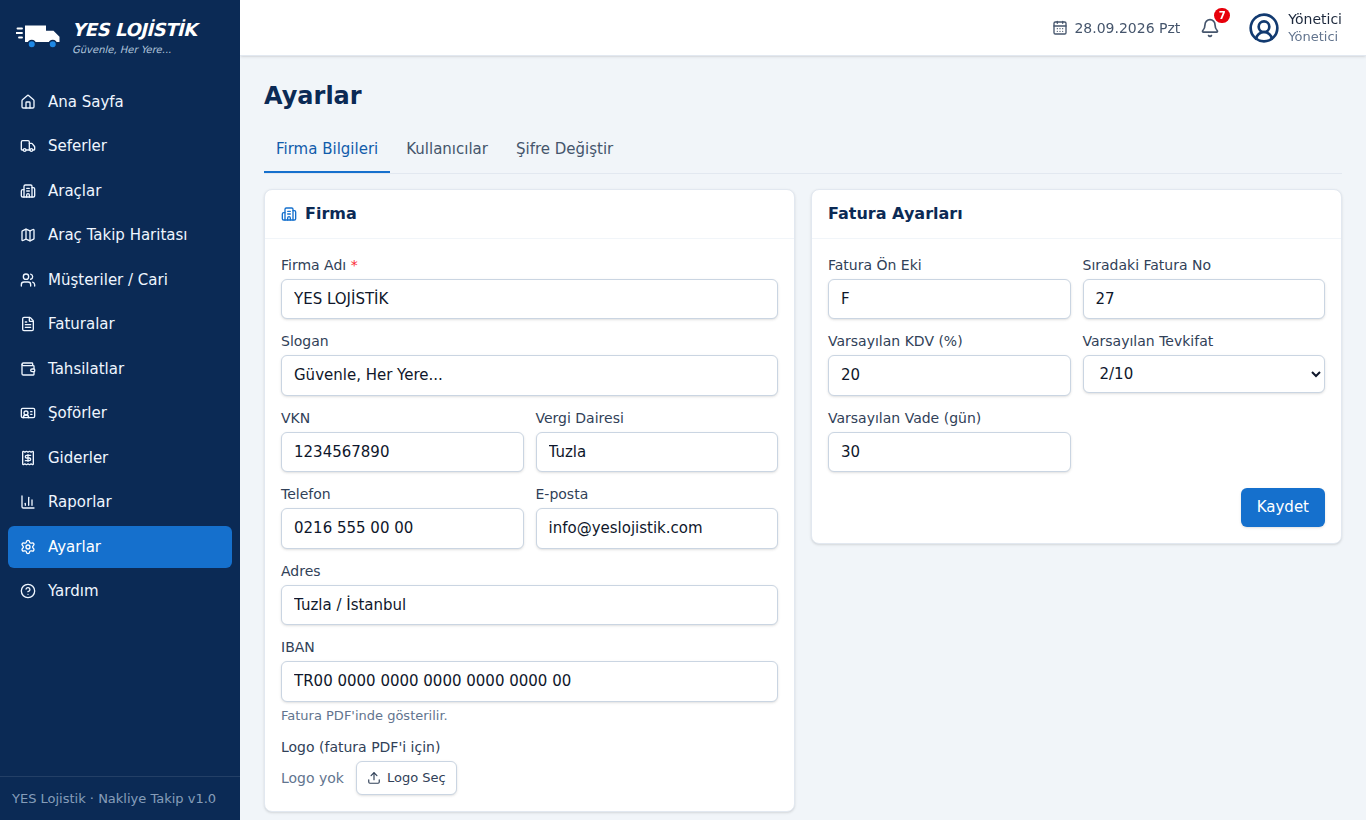
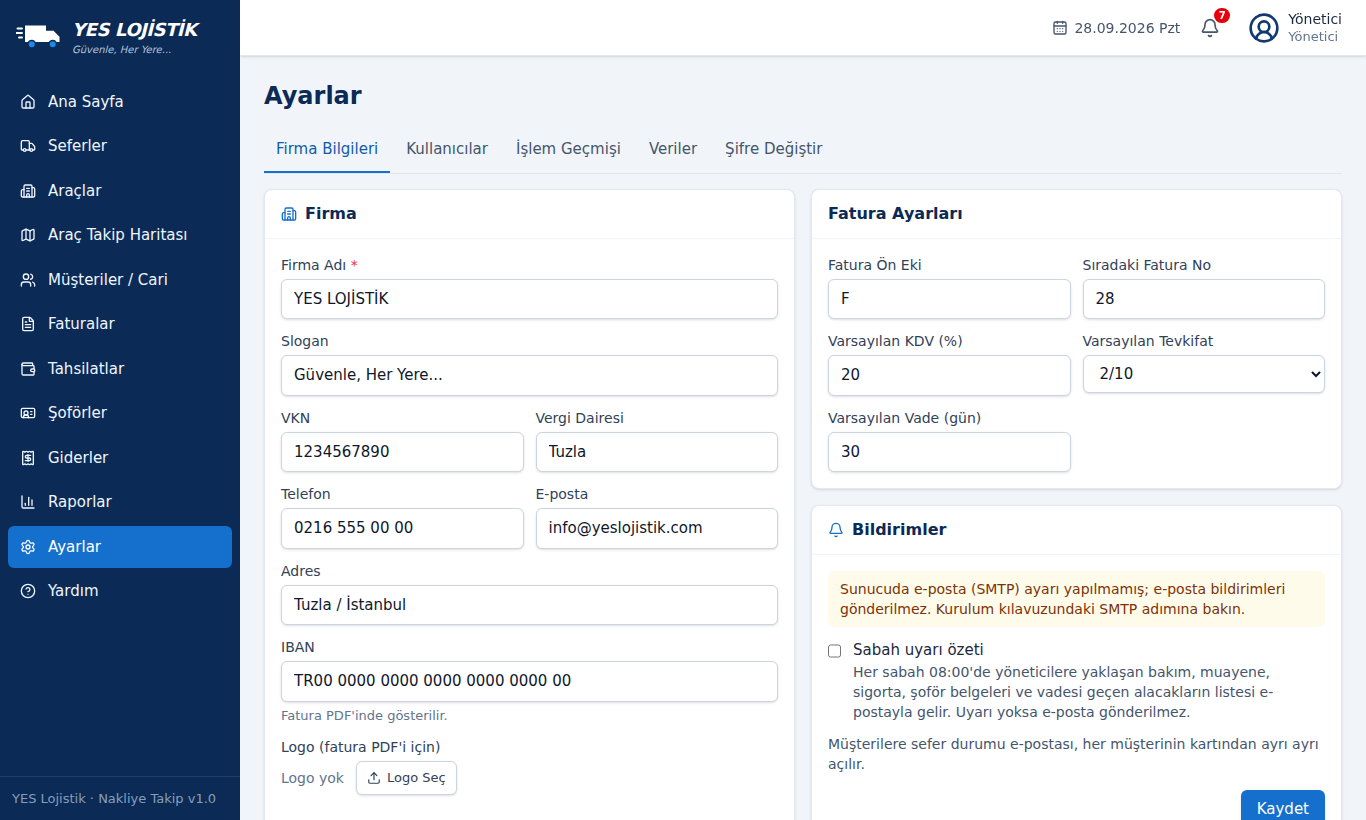
Add screenshots of the new features
Waybill and statement PDFs, the trip window with Sevk Belgesi / Kopyala /
Geçmiş, fuel expense and report, activity log, notification settings and
the driver app expense entry.

Claude-Session: https://claude.ai/code/session_01J5Aj6eK6HCv5EF8yidR9ow

diff --git a/docs/ekranlar/README.md b/docs/ekranlar/README.md
@@ -2,6 +2,40 @@
 
 Örnek (demo) verilerle alınmıştır. Haritadaki gri zemin, görüntülerin alındığı test ortamında harita altlığının yüklenememesindendir; gerçek sunucuda sokak haritası görünür.
 
+## Yeni eklenenler
+
+### Sefer penceresi: Sevk Belgesi, Kopyala, Geçmiş
+
+![Sefer düzenle](pc-sefer-duzenle.png)
+
+### Sevk belgesi (PDF)
+
+![Sevk belgesi](pdf-sevk-belgesi.png)
+
+### Hesap ekstresi
+
+![Hesap ekstresi penceresi](pc-hesap-ekstresi.png)
+
+![Hesap ekstresi PDF](pdf-hesap-ekstresi.png)
+
+### Yakıt gideri (litre + km) ve yakıt raporu
+
+![Yakıt gideri](pc-gider-yakit.png)
+
+![Yakıt raporu](pc-rapor-yakit.png)
+
+### İşlem geçmişi
+
+![İşlem geçmişi](pc-islem-gecmisi.png)
+
+### Ayarlar: bildirimler
+
+![Ayarlar](pc-ayarlar.png)
+
+### Şoför uygulaması: masraf / yakıt girişi
+
+<img src="tel-sofor-masraf.png" alt="Şoför masraf girişi" width="300">
+
 ## Bilgisayar
 
 ### Ana sayfa
